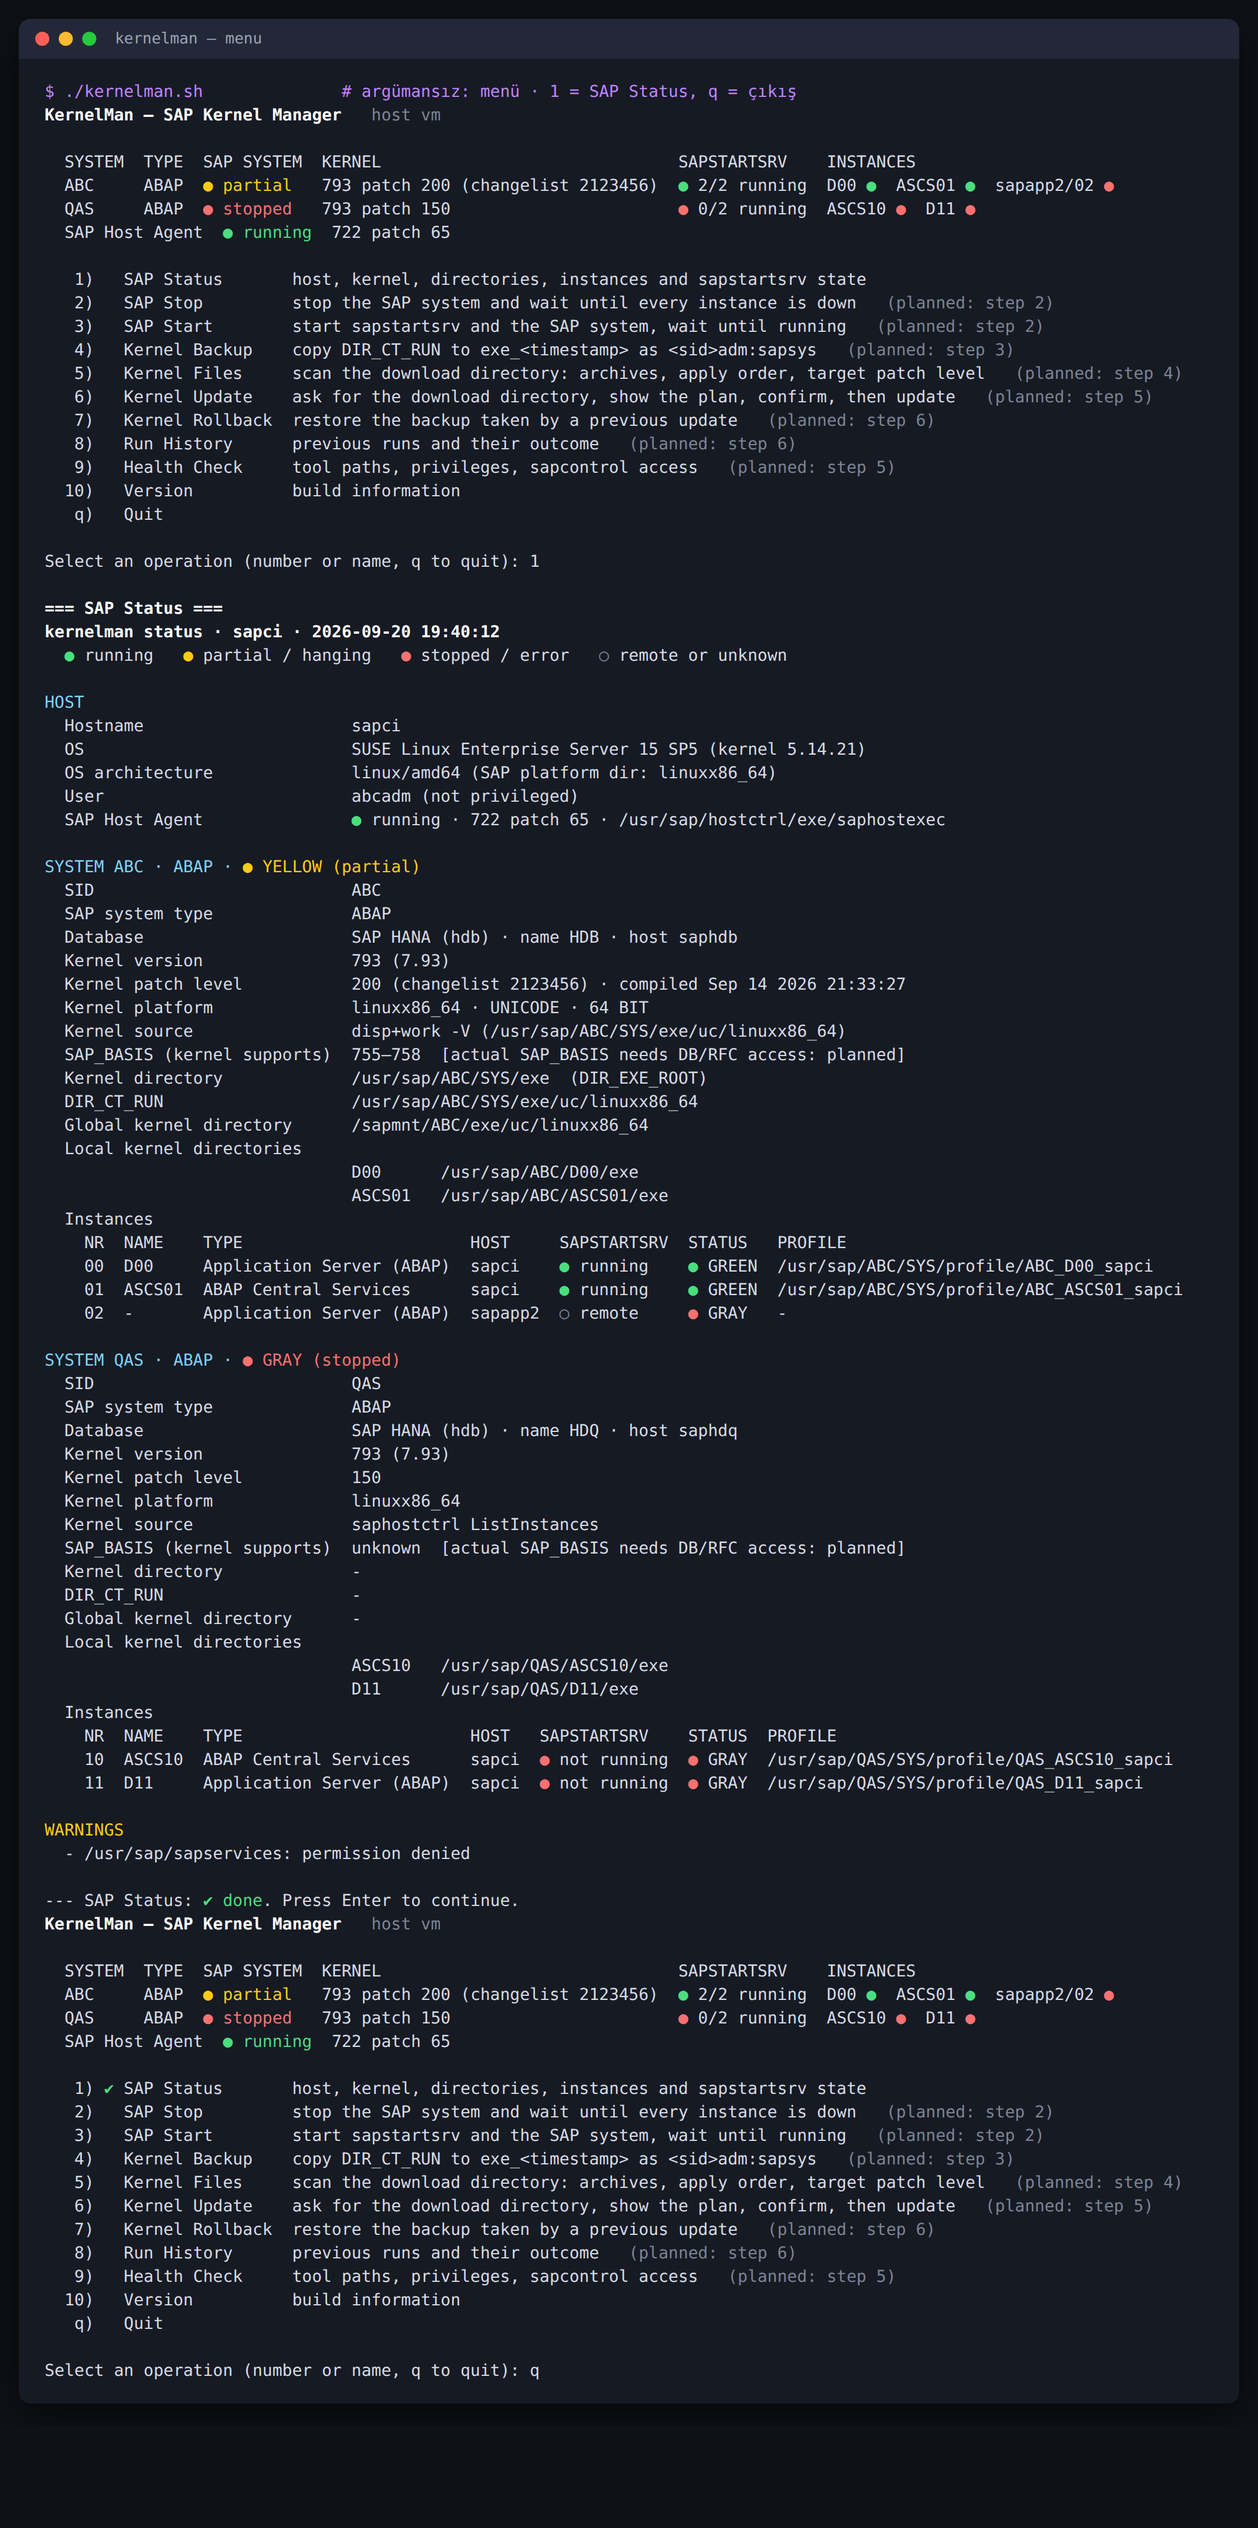
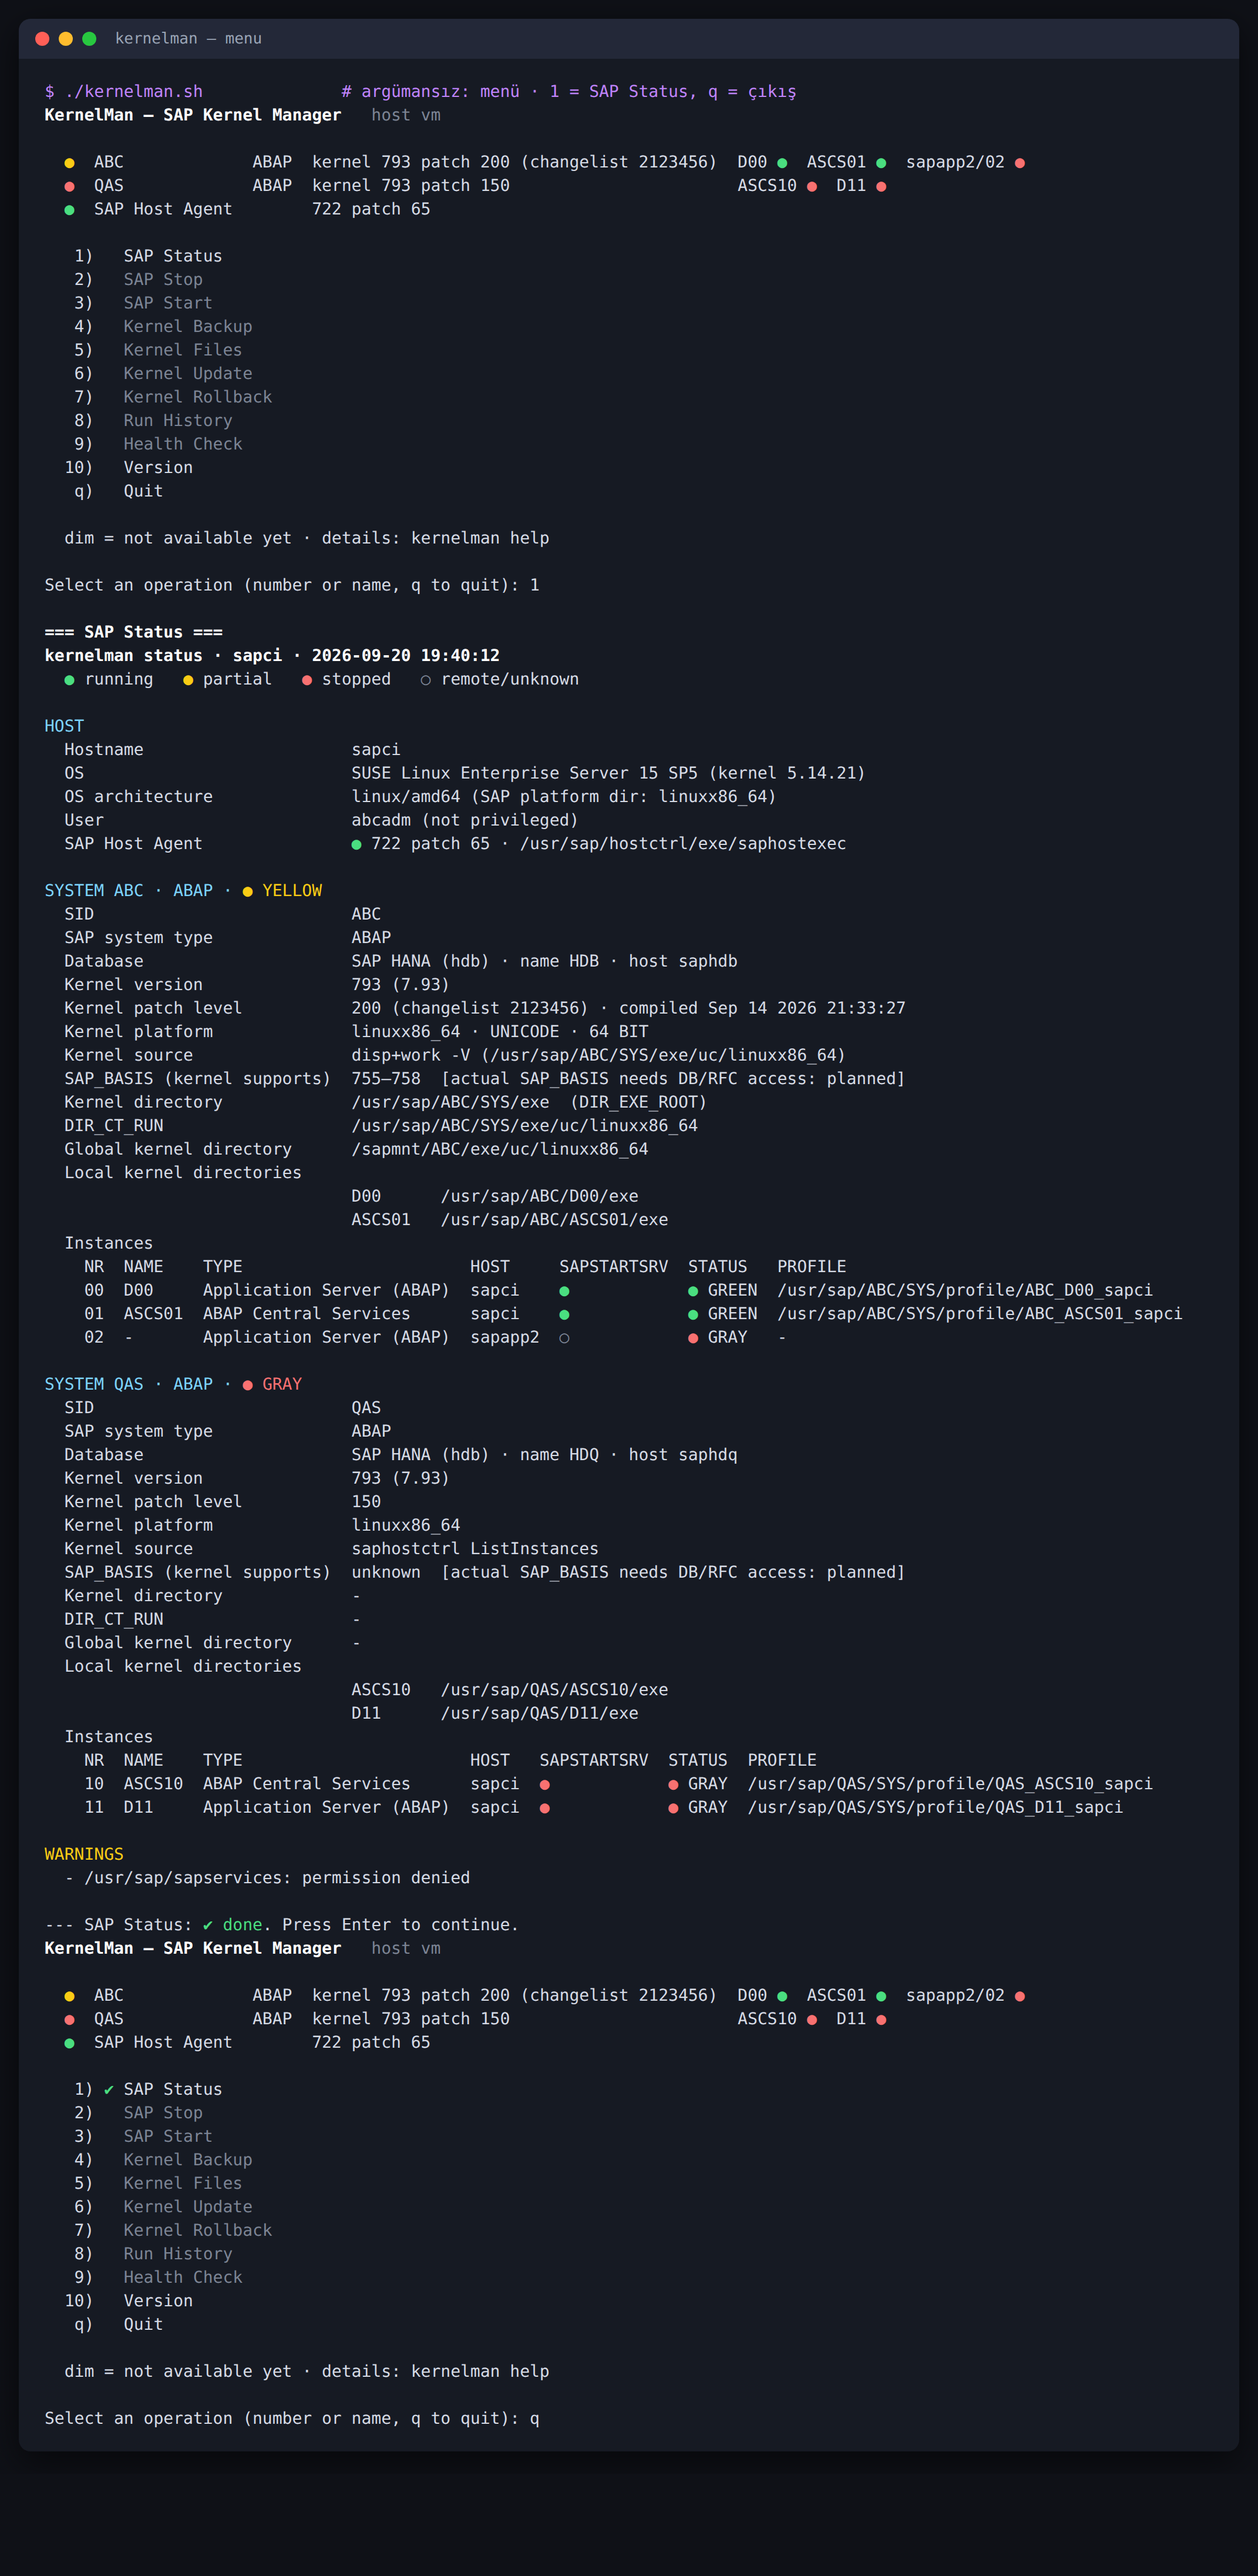
Simplify menu: lights only, no descriptions, no redundant state words
- Menu items show just the operation name; planned ones are dimmed and
  a one-line footer points to `kernelman help` for details.
- System overview: one light per system and per instance plus the
  kernel level. The running/partial/stopped and "n/m running" words are
  gone; a stopped system is simply red everywhere.
- Status screen: system header is light + SAP status word, sapstartsrv
  column is a light only, Host Agent line drops the state word.

Claude-Session: https://claude.ai/code/session_017onKvJRCQjQbxVQ5Viy3SY

diff --git a/internal/cli/menu.go b/internal/cli/menu.go
@@ -81,13 +81,14 @@ func printMenu(w io.Writer, pal ui.Palette, results map[string]int, summary []st
 				mark = pal.Cross()
 			}
 		}
-		state := ""
+		name := op.Name
 		if op.Run == nil {
-			state = pal.Paint(ui.Dim, fmt.Sprintf("   (planned: step %d)", op.Step))
+			name = pal.Paint(ui.Dim, name)
 		}
-		fmt.Fprintf(w, "  %2d) %s %-16s %s%s\n", i+1, mark, op.Name, op.Summary, state)
+		fmt.Fprintf(w, "  %2d) %s %s\n", i+1, mark, name)
 	}
 	fmt.Fprintln(w, "   q)   Quit")
+	fmt.Fprintln(w, pal.Paint(ui.Dim, "\n  dim = not available yet · details: "+version.AppName+" help"))
 	fmt.Fprintln(w)
 }
 
@@ -105,56 +106,36 @@ func liveSummary(pal ui.Palette) []string {
 	return SummaryLines(collectStatus(ctx, status.Options{Timeout: 15 * time.Second}), pal)
 }
 
-// SummaryLines renders the overview shown above the menu: one line per SAP
-// system (is it up or down, kernel level, sapstartsrv, every instance's
-// light) plus the SAP Host Agent.
+// SummaryLines renders the overview above the menu: one light per SAP
+// system and per instance, the kernel level, and the SAP Host Agent.
+// Words are left out on purpose; the light carries the state.
 func SummaryLines(rep *status.Report, pal ui.Palette) []string {
-	rows := [][]string{{"SYSTEM", "TYPE", "SAP SYSTEM", "KERNEL", "SAPSTARTSRV", "INSTANCES"}}
+	var rows [][]string
 	for _, sys := range rep.Systems {
-		running, local := 0, 0
 		var insts []string
 		for _, in := range sys.Instances {
-			if in.Local {
-				local++
-				if in.Sapstartsrv == "running" {
-					running++
-				}
-			}
 			name := in.Name
 			if name == "" {
 				name = in.Host + "/" + in.Nr
 			}
 			insts = append(insts, name+" "+statusLight(pal, in.Status))
 		}
-		srvColour := ui.Green
-		switch {
-		case running == 0:
-			srvColour = ui.Red
-		case running < local:
-			srvColour = ui.Yellow
-		}
-		rows = append(rows, []string{sys.SID, sys.Type,
-			statusLight(pal, sys.Status) + " " + pal.Paint(statusColour(sys.Status), statusWord(sys.Status)),
-			sys.Kernel.String(),
-			fmt.Sprintf("%s %d/%d running", pal.Light(srvColour), running, local),
-			strings.Join(insts, "  ")})
+		rows = append(rows, []string{statusLight(pal, sys.Status), sys.SID, sys.Type,
+			"kernel " + sys.Kernel.String(), strings.Join(insts, "  ")})
 	}
-	var lines []string
-	if len(rep.Systems) == 0 {
-		lines = append(lines, pal.Light(ui.Dim)+" "+pal.Paint(ui.Dim, "no SAP instances found on this host"))
-	} else {
-		lines = ui.Table("", rows)
+	if len(rows) == 0 {
+		rows = append(rows, []string{pal.Light(ui.Dim), pal.Paint(ui.Dim, "no SAP instances found on this host"), "", "", ""})
 	}
 	ha := rep.HostAgent
 	switch {
 	case !ha.Installed:
-		lines = append(lines, "SAP Host Agent  "+pal.Light(ui.Red)+" "+pal.Paint(ui.Red, "not installed"))
+		rows = append(rows, []string{pal.Light(ui.Red), "SAP Host Agent", pal.Paint(ui.Dim, "not installed"), "", ""})
 	case ha.Running:
-		lines = append(lines, fmt.Sprintf("SAP Host Agent  %s %s  %s", pal.Light(ui.Green), pal.Paint(ui.Green, "running"), ha.Version))
+		rows = append(rows, []string{pal.Light(ui.Green), "SAP Host Agent", "", ha.Version.String(), ""})
 	default:
-		lines = append(lines, fmt.Sprintf("SAP Host Agent  %s %s  %s", pal.Light(ui.Red), pal.Paint(ui.Red, "not running"), ha.Version))
+		rows = append(rows, []string{pal.Light(ui.Red), "SAP Host Agent", "", ha.Version.String(), ""})
 	}
-	return lines
+	return ui.Table("", rows)
 }
 
 func menuChoice(s string) (Op, bool) {

diff --git a/internal/cli/render.go b/internal/cli/render.go
@@ -33,20 +33,6 @@ func statusColour(s string) ui.Colour {
 	return ui.Dim
 }
 
-func statusWord(s string) string {
-	switch strings.ToUpper(s) {
-	case "GREEN":
-		return "running"
-	case "YELLOW":
-		return "partial"
-	case "RED":
-		return "error"
-	case "GRAY":
-		return "stopped"
-	}
-	return strings.ToLower(s)
-}
-
 func statusLight(pal ui.Palette, s string) string { return pal.Light(statusColour(s)) }
 
 func sapstartsrvLight(pal ui.Palette, s string) string {
@@ -65,7 +51,7 @@ func sapstartsrvLight(pal ui.Palette, s string) string {
 func RenderStatus(w io.Writer, rep *status.Report, pal ui.Palette) {
 	fmt.Fprintf(w, "%s\n", pal.Paint(ui.Bold, fmt.Sprintf("%s status · %s · %s", version.AppName, rep.Host.Hostname,
 		rep.GeneratedAt.Format("2006-01-02 15:04:05"))))
-	fmt.Fprintf(w, "  %s running   %s partial / hanging   %s stopped / error   %s remote or unknown\n\n",
+	fmt.Fprintf(w, "  %s running   %s partial   %s stopped   %s remote/unknown\n\n",
 		pal.Light(ui.Green), pal.Light(ui.Yellow), pal.Light(ui.Red), pal.Light(ui.Dim))
 
 	fmt.Fprintln(w, pal.Paint(ui.Cyan, "HOST"))
@@ -82,14 +68,14 @@ func RenderStatus(w io.Writer, rep *status.Report, pal ui.Palette) {
 	case !ha.Installed:
 		kv(w, "SAP Host Agent", pal.Light(ui.Red)+" not installed · "+ha.Error)
 	case ha.Running:
-		kv(w, "SAP Host Agent", fmt.Sprintf("%s running · %s · %s", pal.Light(ui.Green), ha.Version, ha.Path))
+		kv(w, "SAP Host Agent", fmt.Sprintf("%s %s · %s", pal.Light(ui.Green), ha.Version, ha.Path))
 	default:
-		kv(w, "SAP Host Agent", fmt.Sprintf("%s NOT running · %s · %s", pal.Light(ui.Red), ha.Version, ha.Path))
+		kv(w, "SAP Host Agent", fmt.Sprintf("%s %s · %s", pal.Light(ui.Red), ha.Version, ha.Path))
 	}
 
 	for _, sys := range rep.Systems {
 		fmt.Fprintf(w, "\n%s %s %s\n", pal.Paint(ui.Cyan, fmt.Sprintf("SYSTEM %s · %s ·", sys.SID, sys.Type)),
-			statusLight(pal, sys.Status), pal.Paint(statusColour(sys.Status), sys.Status+" ("+statusWord(sys.Status)+")"))
+			statusLight(pal, sys.Status), pal.Paint(statusColour(sys.Status), sys.Status))
 		kv(w, "SID", sys.SID)
 		kv(w, "SAP system type", sys.Type)
 		kv(w, "Database", strings.TrimSpace(sys.Database.DisplayName()+" "+dbDetail(sys.Database)))
@@ -118,7 +104,7 @@ func RenderStatus(w io.Writer, rep *status.Report, pal ui.Palette) {
 		rows := [][]string{{"NR", "NAME", "TYPE", "HOST", "SAPSTARTSRV", "STATUS", "PROFILE"}}
 		for _, in := range sys.Instances {
 			rows = append(rows, []string{in.Nr, orDash(in.Name), in.TypeDesc, in.Host,
-				sapstartsrvLight(pal, in.Sapstartsrv) + " " + in.Sapstartsrv,
+				sapstartsrvLight(pal, in.Sapstartsrv),
 				statusLight(pal, in.Status) + " " + in.Status, orDash(in.Profile)})
 		}
 		for _, l := range ui.Table("    ", rows) {

diff --git a/internal/cli/menu_test.go b/internal/cli/menu_test.go
@@ -16,10 +16,9 @@ func TestSummaryLines(t *testing.T) {
 	lines := SummaryLines(exampleReport(), pal)
 	joined := strings.Join(lines, "\n")
 	for _, want := range []string{
-		"SYSTEM  TYPE  SAP SYSTEM   KERNEL                              SAPSTARTSRV      INSTANCES",
-		"ABC     ABAP  (~) partial  793 patch 200 (changelist 2123456)  (+) 2/2 running  D00 (+)  ASCS01 (+)  sapapp2/02 (x)",
-		"QAS     ABAP  (x) stopped  793 patch 150                       (x) 0/2 running  ASCS10 (x)  D11 (x)",
-		"SAP Host Agent  (+) running  722 patch 65",
+		"(~)  ABC             ABAP  kernel 793 patch 200 (changelist 2123456)  D00 (+)  ASCS01 (+)  sapapp2/02 (x)",
+		"(x)  QAS             ABAP  kernel 793 patch 150                       ASCS10 (x)  D11 (x)",
+		"(+)  SAP Host Agent        722 patch 65",
 	} {
 		if !strings.Contains(joined, want) {
 			t.Errorf("summary lacks %q\n%s", want, joined)

diff --git a/internal/cli/render_test.go b/internal/cli/render_test.go
@@ -62,10 +62,10 @@ func TestRenderStatus(t *testing.T) {
 	var buf bytes.Buffer
 	RenderStatus(&buf, exampleReport(), ui.Palette{})
 	out := buf.String()
-	for _, want := range []string{"SYSTEM ABC · ABAP · (~) YELLOW (partial)", "Kernel version               793 (7.93)",
+	for _, want := range []string{"SYSTEM ABC · ABAP · (~) YELLOW", "Kernel version               793 (7.93)",
 		"Kernel patch level           200 (changelist 2123456)", "DIR_CT_RUN                   /usr/sap/ABC/SYS/exe/uc/linuxx86_64",
 		"Global kernel directory      /sapmnt/ABC/exe/uc/linuxx86_64", "ASCS01", "sapapp2", "remote", "SAP HANA (hdb)",
-		"755–758", "SAP Host Agent               (+) running · 722 patch 65", "WARNINGS"} {
+		"755–758", "SAP Host Agent               (+) 722 patch 65", "WARNINGS"} {
 		if !strings.Contains(out, want) {
 			t.Errorf("output lacks %q\n%s", want, out)
 		}

diff --git a/docs/ARCHITECTURE.md b/docs/ARCHITECTURE.md
@@ -241,7 +241,7 @@ systems:
 
 | Komut | Görünen ad | İş |
 |-------|------------|----|
-| `kernelman` (argümansız, terminalde) | menü | üstte sistem başına trafik ışığı; yapılan işlemin numarası yanında yeşil ✔ / kırmızı ✘ |
+| `kernelman` (argümansız, terminalde) | menü | üstte sistem ve instance başına yalnızca trafik ışığı (kelime yok); işlem adları açıklamasız; yapılmış işlemin yanında yeşil ✔ / kırmızı ✘; henüz olmayanlar soluk |
 | `kernelman status [--sid ABC]` | **SAP Status** | **açılış ekranı**: SID · hostname · instance no/tipi · sistem tipi · OS/mimari · DB · kernel release/patch · DIR_EXE_ROOT · DIR_CT_RUN · global/local kernel dizinleri · instance listesi · sapstartsrv · Host Agent; her durum trafik ışığıyla |
 | `kernelman stop --sid ABC` | **SAP Stop** | `StopSystem ALL` → `WaitforStopped` → `StopService`; öncesinde snapshot |
 | `kernelman start --sid ABC` | **SAP Start** | `StartService` → `StartSystem` → `WaitforStarted` |

diff --git a/STATE.md b/STATE.md
@@ -43,6 +43,7 @@ Her oturum: bu dosyayı oku → sadece **NEXT** maddesini yap → burayı günce
 - Binary adı `kernelman`.
 
 ## Karar günlüğü
+- 2026-09-20 · Kullanıcı: menü kalabalık, kapalı sistem için yalnızca kırmızı ışık → açıklamalar menüden kaldırıldı (`help`'te), durum kelimeleri (running/stopped/n/m) kaldırıldı, ışık tek gösterge.
 - 2026-09-20 · İsim **KernelMan** (kullanıcı seçimi): komut/binary `kernelman`, görünen ad `KernelMan`, env `KERNELMAN_*`.
 - 2026-09-20 · Menü başlığı: sistem başına açık/kapalı ışığı + kernel + sapstartsrv n/m + her instance'ın ışığı + Host Agent (kullanıcı: "sistem açık mı kapalı mı görünsün").
 - 2026-09-20 · İsim `skm` → **`kernelman`** (kullanıcı: kısaltma güzel değil). Tek yerden: `internal/version.AppName/ProductName/EnvPrefix`,
